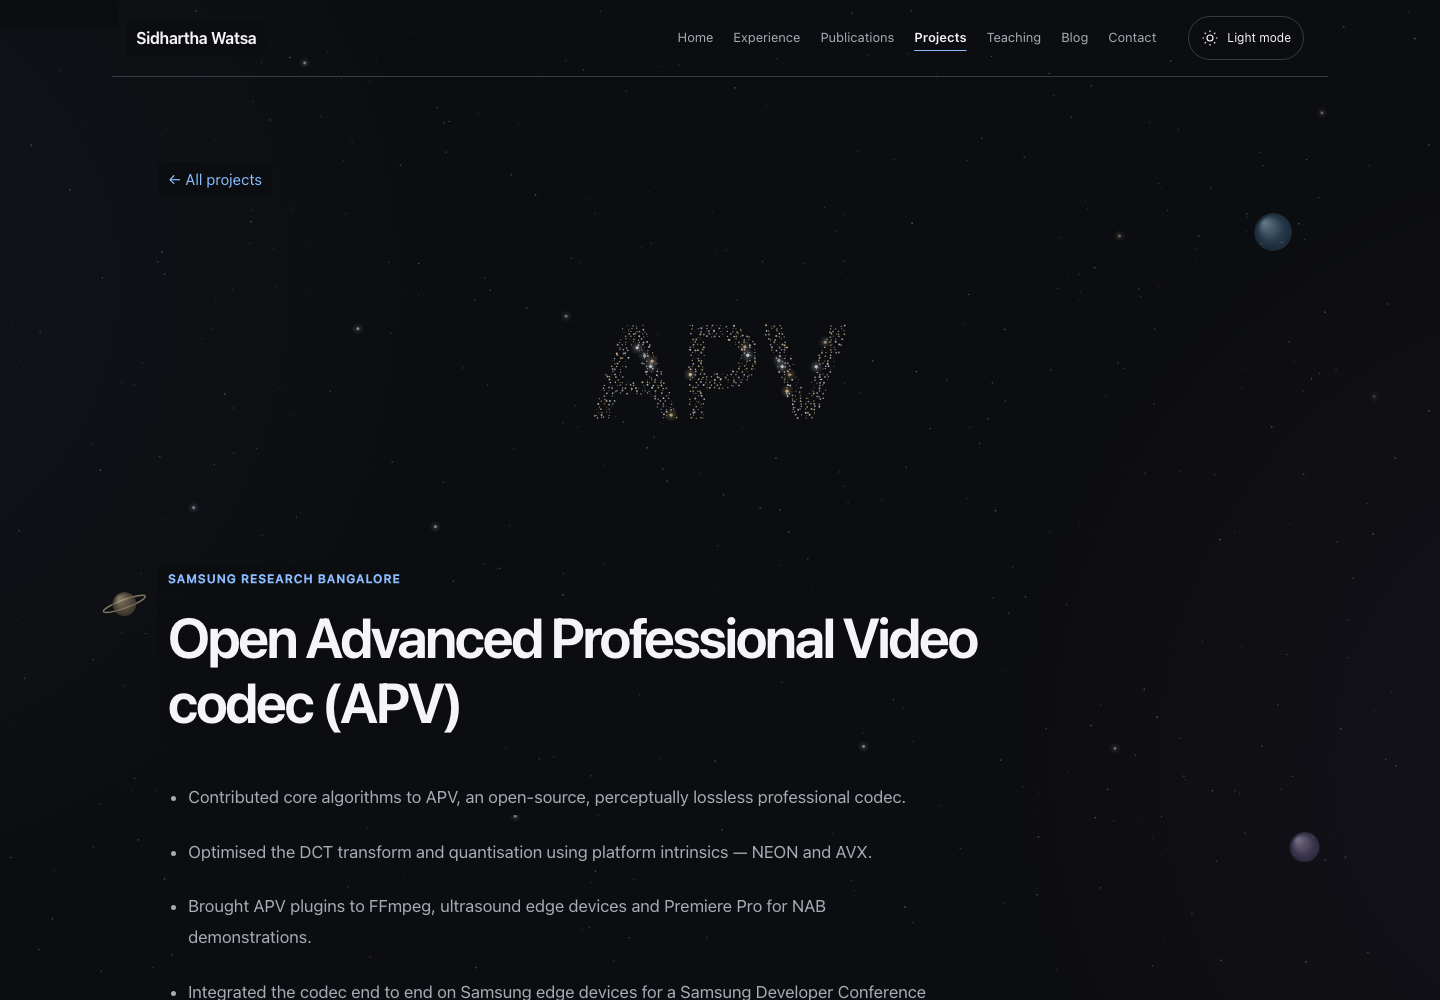
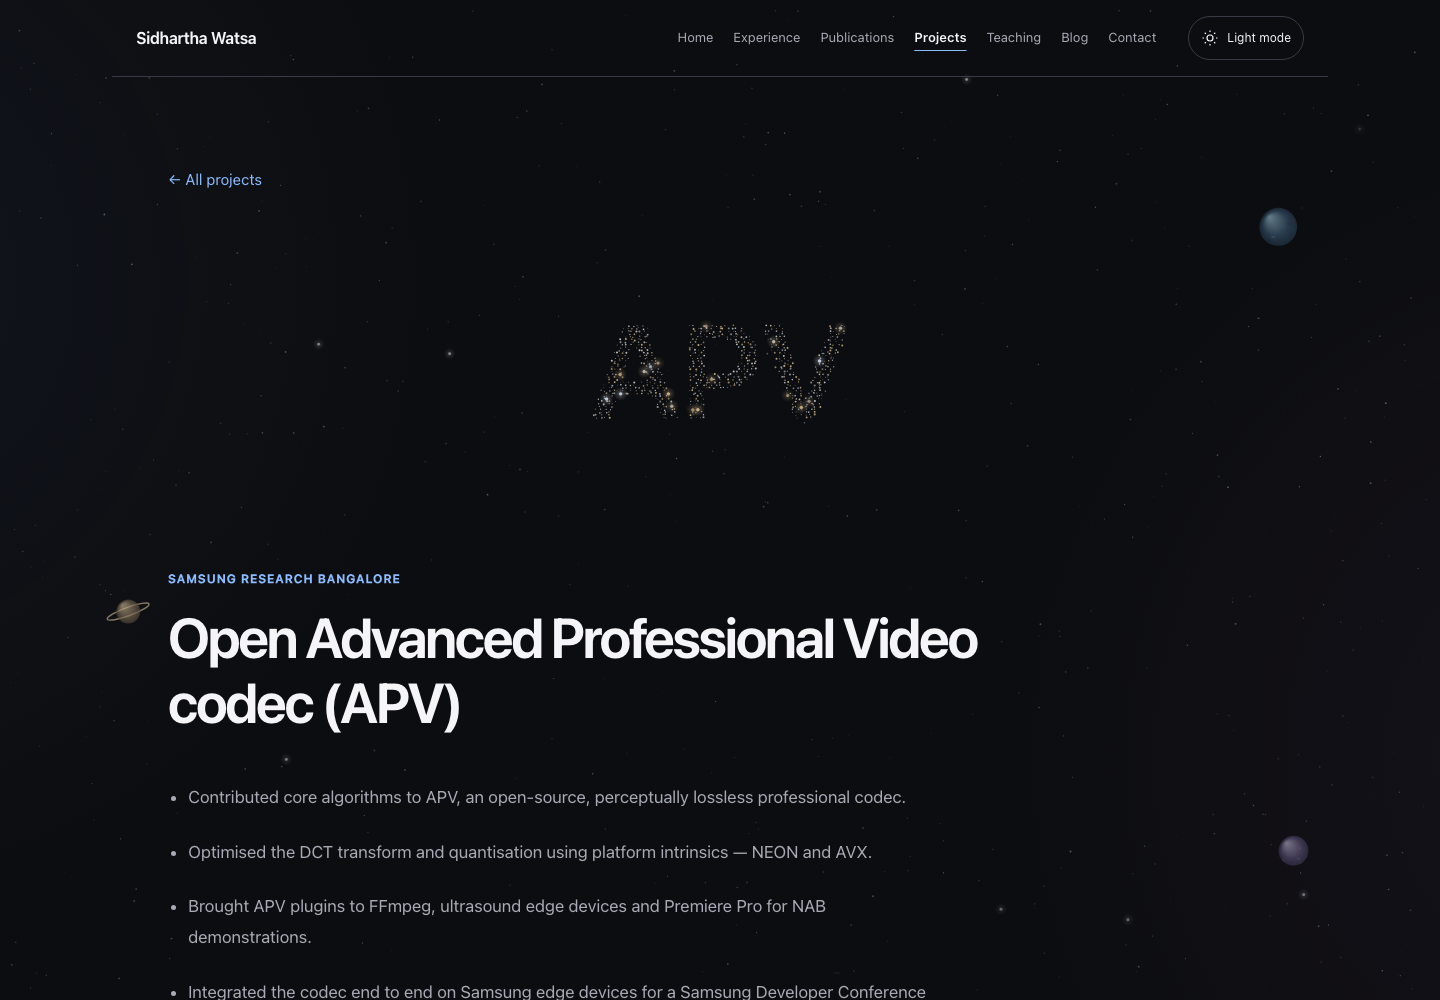
Keep edge haze seamless beneath text clearances

diff --git a/components/CosmicBackground.tsx b/components/CosmicBackground.tsx
@@ -80,13 +80,6 @@ export default function CosmicBackground(){
     function draw(dt:number){
       ctx!.clearRect(0,0,width,height);
       ctx!.lineCap="butt";
-      // Haze stays at the outer edges; no animated wash behind the content.
-      for(const [x,y,rgb] of [[-width*.13,height*.28,"68,106,157"],[width*1.13,height*.76,"119,82,143"]] as const){
-        const radius=Math.max(width*.43,220);
-        const haze=ctx!.createRadialGradient(x,y,0,x,y,radius);
-        haze.addColorStop(0,`rgba(${rgb},${dark?.095:.045})`);haze.addColorStop(1,`rgba(${rgb},0)`);
-        ctx!.fillStyle=haze;ctx!.fillRect(0,0,width,height);
-      }
       for(const s of stars){
         if(dt)integrate(s,dt);
         const rgb=dark?(s.tone<.12?"226,207,180":s.tone>.85?"162,195,232":"223,232,244"):"64,88,124";
@@ -149,6 +142,7 @@ export default function CosmicBackground(){
         ctx!.restore();ctx!.restore();
       }
       clearContent(ctx!,boxes);
+
     }
     function frame(now:number){
       raf=0;if(document.hidden||paused()||reduced.matches)return;
@@ -174,5 +168,5 @@ export default function CosmicBackground(){
     window.addEventListener("resize",resize);window.addEventListener("scroll",refresh,{passive:true});document.addEventListener("visibilitychange",preference);reduced.addEventListener("change",preference);
     return()=>{stop();theme.disconnect();content.disconnect();layout.disconnect();window.removeEventListener("pointermove",move);window.removeEventListener("blur",leave);document.removeEventListener("pointerleave",leave);window.removeEventListener("resize",resize);window.removeEventListener("scroll",refresh);document.removeEventListener("visibilitychange",preference);reduced.removeEventListener("change",preference);};
   },[]);
-  return <canvas ref={ref} className="cosmic-background" data-testid="cosmic-background" aria-hidden="true"/>;
+  return <><div className="cosmic-haze" aria-hidden="true"/><canvas ref={ref} className="cosmic-background" data-testid="cosmic-background" aria-hidden="true"/></>;
 }

diff --git a/app/globals.css b/app/globals.css
@@ -1112,3 +1112,7 @@ body { isolation: isolate; }
 }
 @media (prefers-reduced-motion: reduce) { .name-stars { display: none; } }
 .project-banner + .page-heading { margin-top: 2rem; }
+
+/* Static haze is below the sky so text clearances never leave rectangular seams. */
+.cosmic-haze { position: fixed; inset: 0; z-index: -2; pointer-events: none; background: radial-gradient(circle max(43vw,220px) at -13% 28%,rgba(68,106,157,.045),transparent),radial-gradient(circle max(43vw,220px) at 113% 76%,rgba(119,82,143,.045),transparent); }
+[data-theme="dark"] .cosmic-haze { background: radial-gradient(circle max(43vw,220px) at -13% 28%,rgba(68,106,157,.095),transparent),radial-gradient(circle max(43vw,220px) at 113% 76%,rgba(119,82,143,.095),transparent); }

diff --git a/docs/apple-design-review/cosmic-polish/README.md b/docs/apple-design-review/cosmic-polish/README.md
@@ -2,8 +2,8 @@
 
 Planets have small surface marks projected onto a rotating sphere. Marks pass behind the limb instead of rotating as flat stickers; the lighting direction and ring orientation stay stable. Motion follows the same time source and Reduced Motion behavior as the existing sky.
 
-Two faint blue/violet radial haze patches sit beyond the viewport edges. Their low opacity and content clearances preserve the reading areas.
+Two faint blue/violet radial haze patches sit beyond the viewport edges. Their low opacity preserves the reading areas. The static CSS layer sits beneath the sky so clearing particles away from text cannot leave rectangular seams.
 
 Project particle titles have muted accents: NNLF ice blue, NNFilter teal, NNIntra violet, APV amber, ROBOMASTER rose, CHANDRAYAAN silver. Most stars stay neutral. Home keeps its existing cool star palette. No formation forces or timing changed.
 
-Validation: production export, lint and TypeScript passed. All 20 Chromium/WebKit sky and project checks passed, including each project's accent, text clearances, Home gathering, pointer response, reduced motion, mobile reflow and accessibility. APV's dark screenshot was visually reviewed.
+Validation: production export, lint and TypeScript passed. All 20 Chromium/WebKit sky and project checks passed, including each project's accent, text clearances, Home gathering, pointer response, reduced motion, mobile reflow and accessibility. The final haze layering also passed both browser physics/text-clearance checks; its CSS gradient rendered successfully. APV's dark screenshot was visually reviewed.
